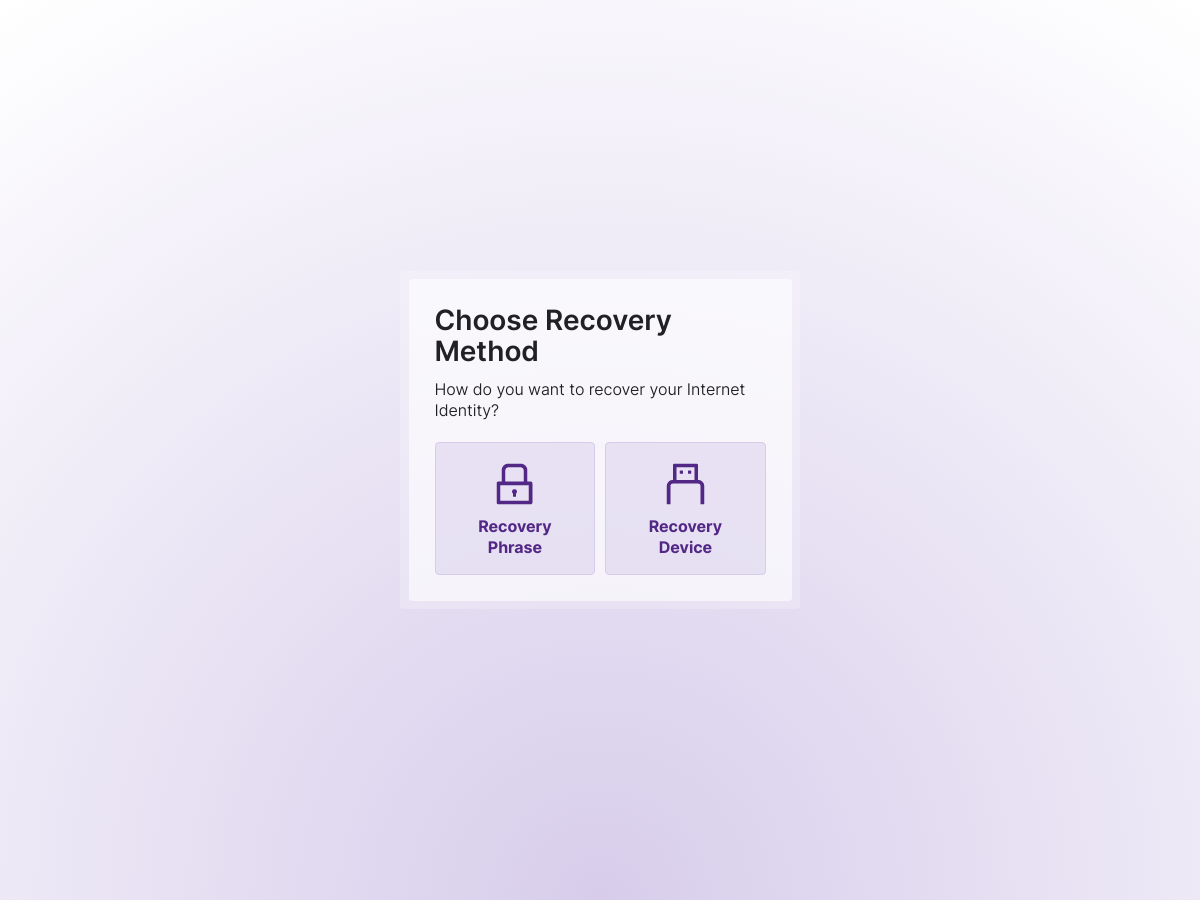
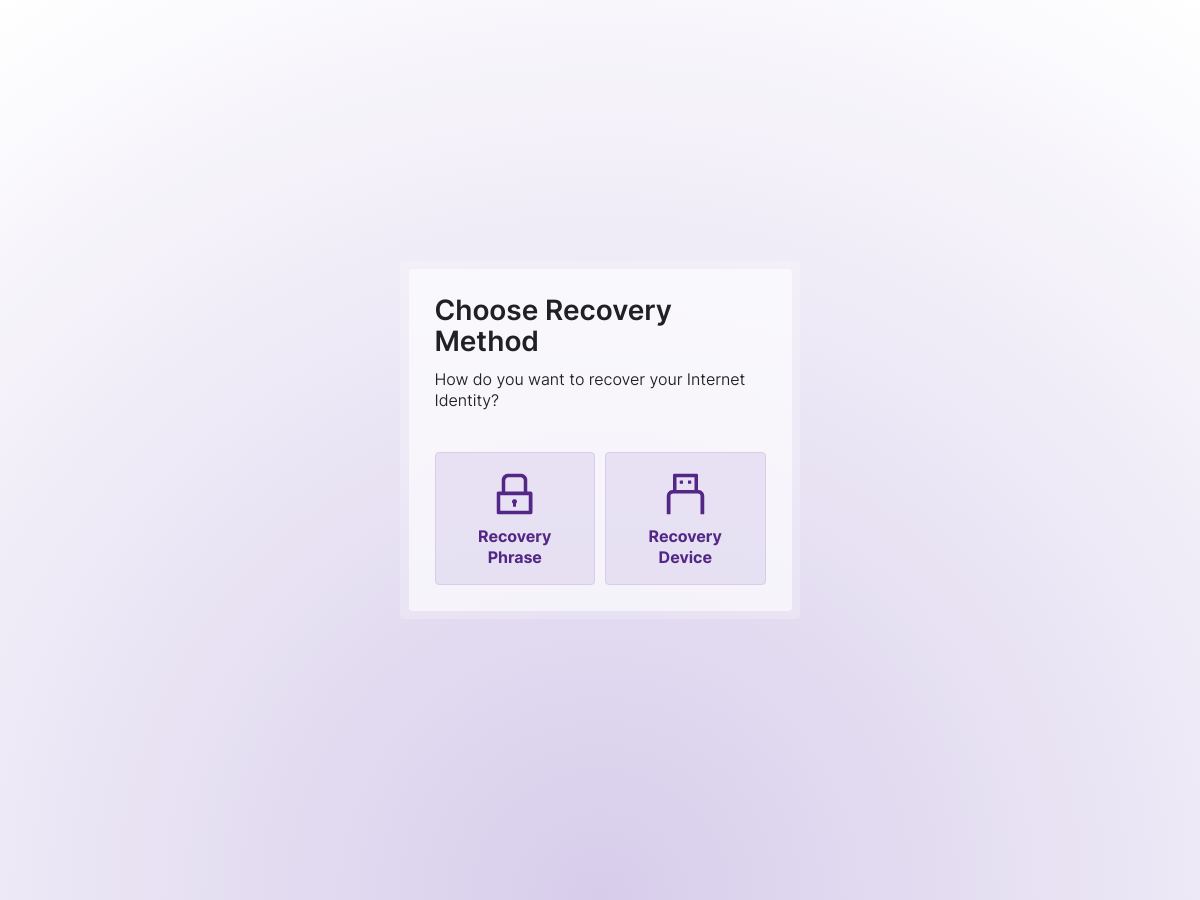
Clean up pickRecoveryDevice (#1549)
* Clean up pickRecoveryDevice

This cleans it up to inherit the proper flex behavior (by removing
intermediary elements) and make the HTML more consistent with the
similar (but well-behaved) `chooseRecoveryMechanism`.

* 🤖 Selenium screenshots auto-update

---------

Changed region(s): [[0.3392, 0.3111, 0.6167, 0.4667], [0.5242, 0.4978, 0.6167, 0.6533], [0.4008, 0.4978, 0.4625, 0.6222]]

diff --git a/src/frontend/src/flows/recovery/pickRecoveryDevice.ts b/src/frontend/src/flows/recovery/pickRecoveryDevice.ts
@@ -9,13 +9,15 @@ import { html, render } from "lit-html";
 
 const pageContent = () => {
   const pageContentSlot = html`
-    <hgroup>
-      <h1 class="t-title t-title--main">Choose Recovery Method</h1>
-      <p class="t-paragraph t-lead">
-        How do you want to recover your Internet Identity?
-      </p>
-    </hgroup>
-    <div id="deviceList"></div>
+    <article>
+      <hgroup>
+        <h1 class="t-title t-title--main">Choose Recovery Method</h1>
+        <p class="t-paragraph t-lead">
+          How do you want to recover your Internet Identity?
+        </p>
+      </hgroup>
+      <div class="l-horizontal l-stack" id="deviceList"></div>
+    </article>
   `;
 
   return mainWindow({
@@ -38,27 +40,21 @@ export const init = (devices: RecoveryDevice[]): Promise<RecoveryDevice> =>
     const deviceList = document.getElementById("deviceList") as HTMLElement;
     deviceList.innerHTML = ``;
 
-    const list = document.createElement("ul");
-    list.classList.add("l-horizontal", "l-stack--tight");
-
     devices.forEach((device) => {
-      const identityElement = document.createElement("li");
-      identityElement.className = "deviceItem";
+      const btn = document.createElement("button");
+      btn.classList.add("c-button", "c-button--secondary");
       render(
-        html`<div class="deviceItemAlias">
-          <button class="c-button c-button--secondary">
-            <span aria-hidden="true"
-              >${isRecoveryPhrase(device)
-                ? seedPhraseIcon
-                : securityKeyIcon}</span
-            >
-            <div class="t-strong">${recoveryDeviceToLabel(device)}</div>
-          </button>
-        </div>`,
-        identityElement
+        html`
+          <span aria-hidden="true"
+            >${isRecoveryPhrase(device)
+              ? seedPhraseIcon
+              : securityKeyIcon}</span
+          >
+          <div class="t-strong">${recoveryDeviceToLabel(device)}</div>
+        `,
+        btn
       );
-      identityElement.onclick = () => resolve(device);
-      list.appendChild(identityElement);
+      btn.onclick = () => resolve(device);
+      deviceList.appendChild(btn);
     });
-    deviceList.appendChild(list);
   });
